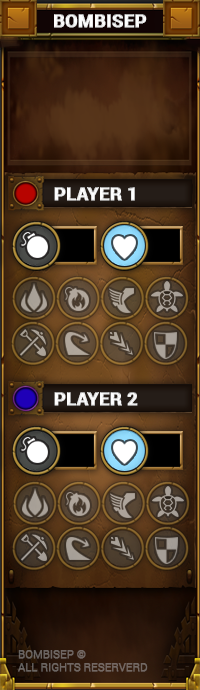
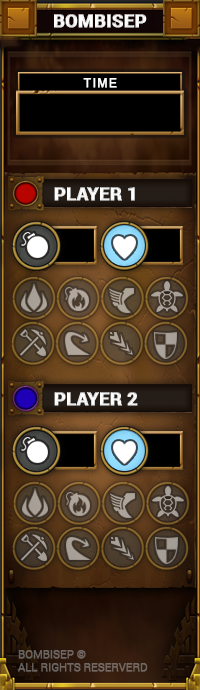
Timer Cadre

Changed region(s): [[0.06, 0.0913, 0.93, 0.213]]

diff --git a/Bomberman 2/src/Main.java b/Bomberman 2/src/Main.java
@@ -68,16 +68,16 @@ public class Main {
 			}
 			//Affichage timer
 			if (Time_seconde < 10 && Time_minute < 10){
-				StdDraw.text(1150, 110,"0" + Long.toString(Time_minute) + " : 0" + Long.toString(Time_seconde));
+				StdDraw.text(1150, 116,"0" + Long.toString(Time_minute) + " : 0" + Long.toString(Time_seconde));
 			}
 			else if(Time_seconde >= 10 && Time_minute < 10){
-				StdDraw.text(1150, 110,"0" + Long.toString(Time_minute) + " : " + Long.toString(Time_seconde));
+				StdDraw.text(1150, 116,"0" + Long.toString(Time_minute) + " : " + Long.toString(Time_seconde));
 			}
 			else if(Time_seconde < 10 && Time_minute >= 10){
-				StdDraw.text(1150, 110,Long.toString(Time_minute) + " : 0" + Long.toString(Time_seconde));
+				StdDraw.text(1150, 116,Long.toString(Time_minute) + " : 0" + Long.toString(Time_seconde));
 			}
 			else if(Time_seconde >= 10 && Time_minute >= 10){
-				StdDraw.text(1150, 110,Long.toString(Time_minute) + " : " + Long.toString(Time_seconde));
+				StdDraw.text(1150, 116,Long.toString(Time_minute) + " : " + Long.toString(Time_seconde));
 			}
 			
 			
@@ -142,6 +142,7 @@ public class Main {
 				Bombe bombe = new Bombe(Joueur1.getX(),Joueur1.getY(), Joueur1);
 				Plateau_1.map[Joueur1.getY()][Joueur1.getX()] = 3;
 				Joueur1.setNbBombe(Joueur1.getNbBombe() - 1);
+				bombe.Affiche_bomb(Joueur1.getX(), Joueur1.getY());
 			}
 			
 			StdDraw.show();
